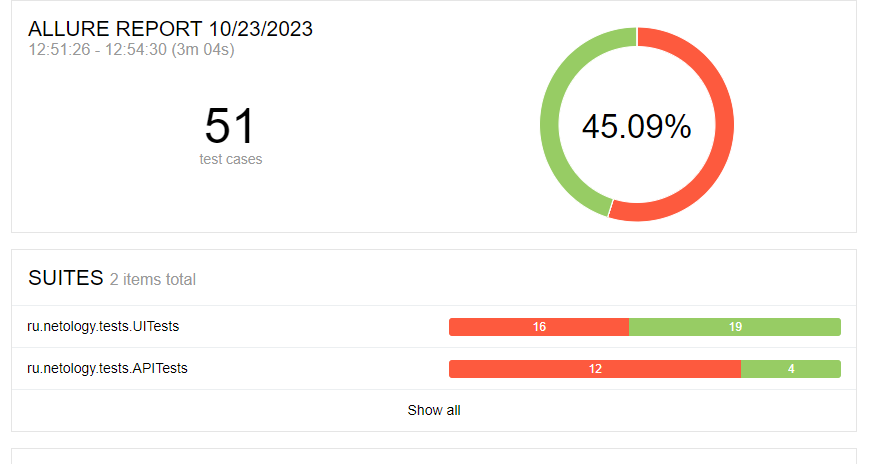
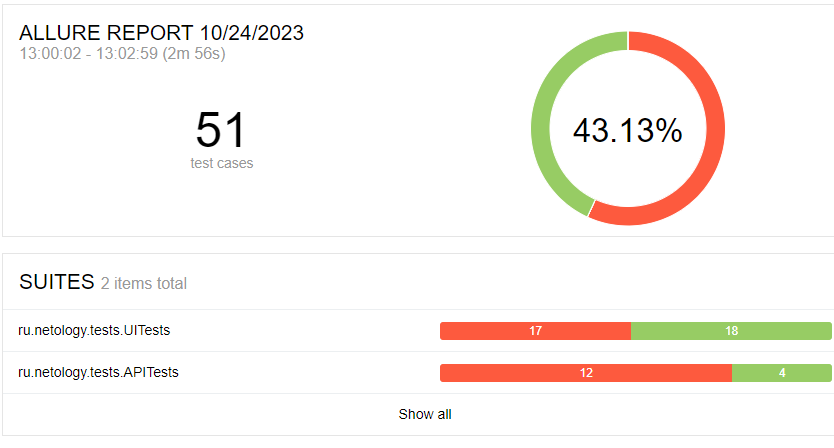
Change Report

diff --git a/Reports/Report.md b/Reports/Report.md
@@ -13,12 +13,12 @@
 
 Всего в тестировании проведено 51 теста:
 
-* 23 пройдено успешно (45,09%)
-* 28 не пройдено (54,91%)
+* 22 пройдено успешно (43,13%)
+* 29 не пройдено (56,87%)
 
-(![report](img/img.png))
-![report_2](img/img_1.png)
-![report_3](img/img_2.png)
+![img.png](img/img.png)
+![img_1.png](img/img_1.png)
+![img_2.png](img/img_2.png)
 
 По результатам тестирования были заведены [баг-репорты](https://github.com/PniVedro/diplomQA/issues)
 

diff --git a/README.md b/README.md
@@ -40,7 +40,7 @@
 4. Открыть проект в IntelliJ IDEA
 
 ## Запуск
-1. Запустить контейнеры командой в корне проекта `docker-compose up`
+1. Запустить контейнеры командой в терминале `docker-compose up`
 
 2. В новой вкладке терминала ввести следующую команду в зависимости от базы данных
 - `java -jar artifacts/aqa-shop.jar --spring.datasource.url=jdbc:mysql://localhost:3306/app
